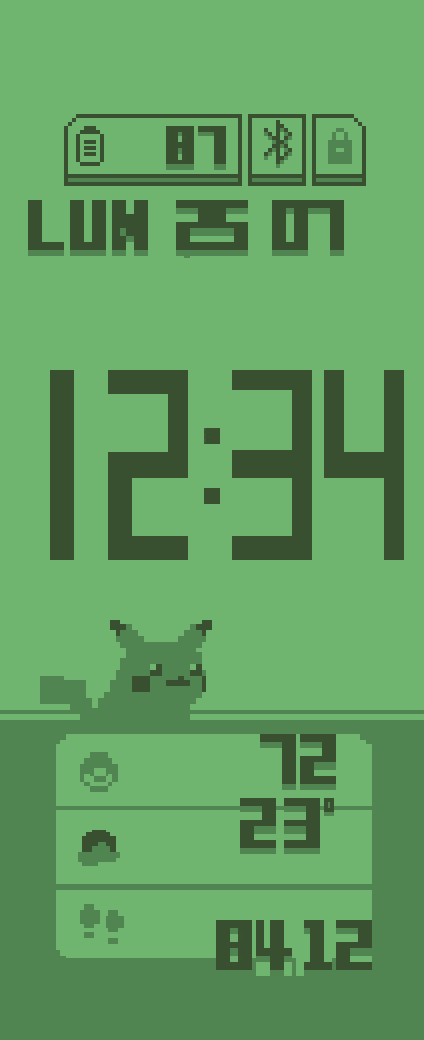
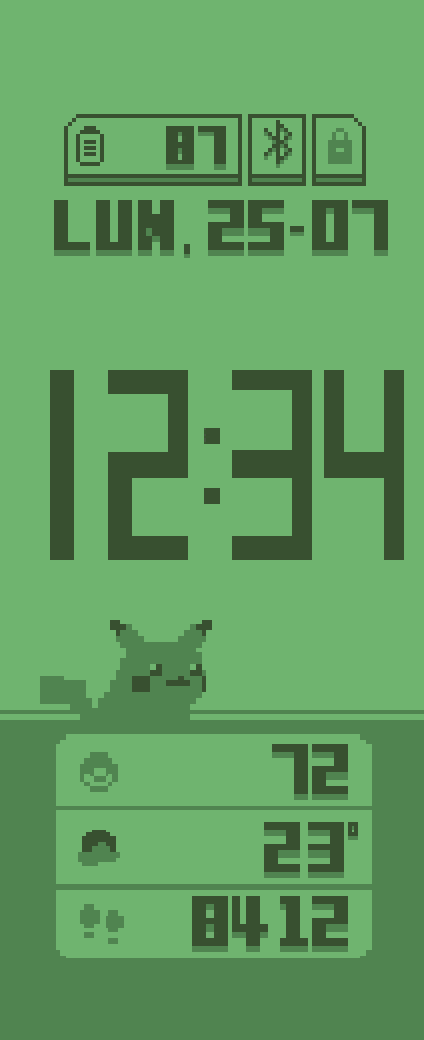
Make the sleeping Pikachu blink
AnimationSleep was a single static frame; converted it to a real
Shape=31 animation widget (anim_[0@180], confirmed via Mi Create's
own compiler with "Found animation: packing.." and a successful
build) that cycles pika_0/pika_1 for an occasional blink instead of
a static Zzz. Frames were rescaled from the provided 493x325 exports
down to native 99x65 using the ear-tip spacing as a scale reference,
so they align pixel-perfectly with the Pikachu baked into
Background.png. Also fixed generate_preview.py's visibility handling
to apply to all widget shapes, not just Shape=30, now that the sleep
widget is Shape=31.

Changed region(s): [[0.4292, 0.7077, 0.8892, 0.9538], [0.0613, 0.1846, 0.9198, 0.2462]]

diff --git a/scripts/generate_preview.py b/scripts/generate_preview.py
@@ -40,13 +40,12 @@ STANDARD_VALUES = {
     "HeartRate": 72,
 }
 
-# Shape="30" widgets are conditionally visible on-device (Visible_Src != "0").
+# Widgets with Visible_Src != "0" are conditionally visible on-device.
 # Explicitly decide what a "typical" preview should show for those; anything
 # else with Visible_Src == "0" is always drawn.
 VISIBLE_OVERRIDES = {
     "Lock": False,
     "Bluetooth": True,
-    "AnimationSleep": False,
 }
 
 DIGIT_FILE_RE = re.compile(r"_(\d)\.png$")
@@ -72,10 +71,11 @@ def render(fprj_path: Path, images_dir: Path) -> Image.Image:
         shape = widget.get("Shape")
         x, y = int(widget.get("X")), int(widget.get("Y"))
 
+        visible = VISIBLE_OVERRIDES.get(name, widget.get("Visible_Src") == "0")
+        if not visible:
+            continue
+
         if shape == "30":
-            visible = VISIBLE_OVERRIDES.get(name, widget.get("Visible_Src") == "0")
-            if not visible:
-                continue
             canvas.alpha_composite(load(images_dir, widget.get("Bitmap")), (x, y))
 
         elif shape == "31":
